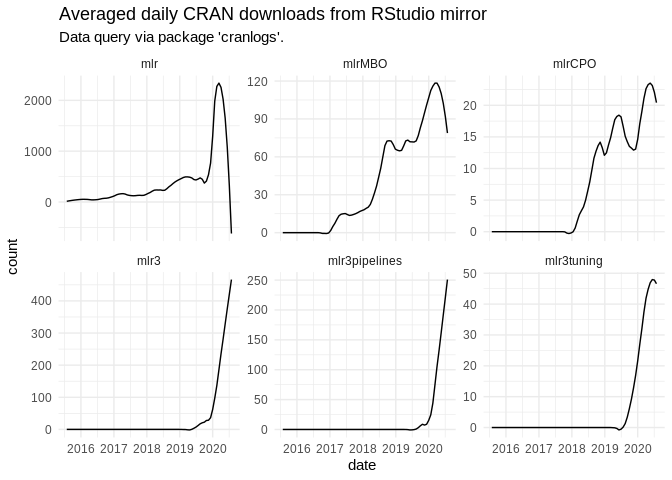
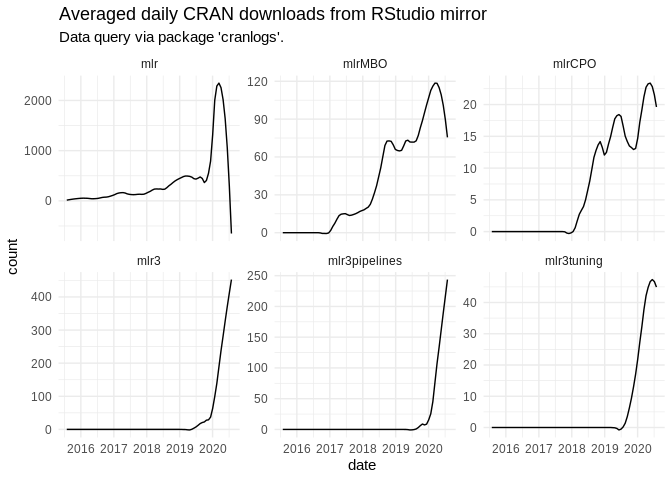
Deploy from Travis build 272 [ci skip]
Build URL: https://travis-ci.org/mlr-org/mlrcranlog/builds/712769690
Commit: 57e8ab037718f1f775b0a774ae41901ab5dadc8a

diff --git a/README.md b/README.md
@@ -9,7 +9,7 @@
 
 Created on
 
-    ## [1] "2020-07-28"
+    ## [1] "2020-07-29"
 
 <details>
 
